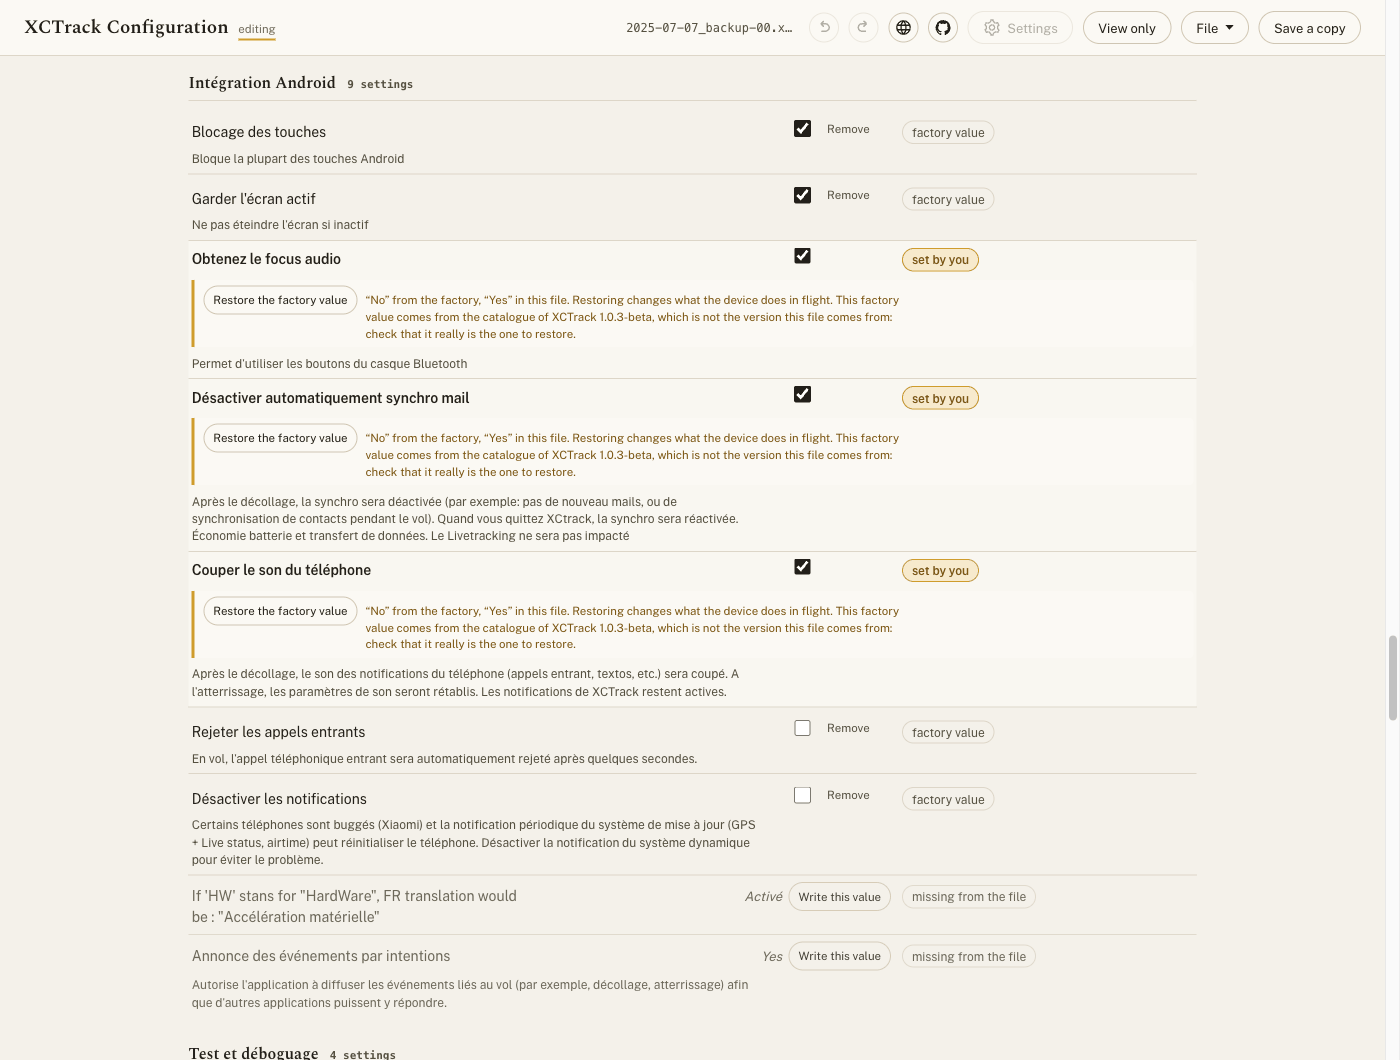
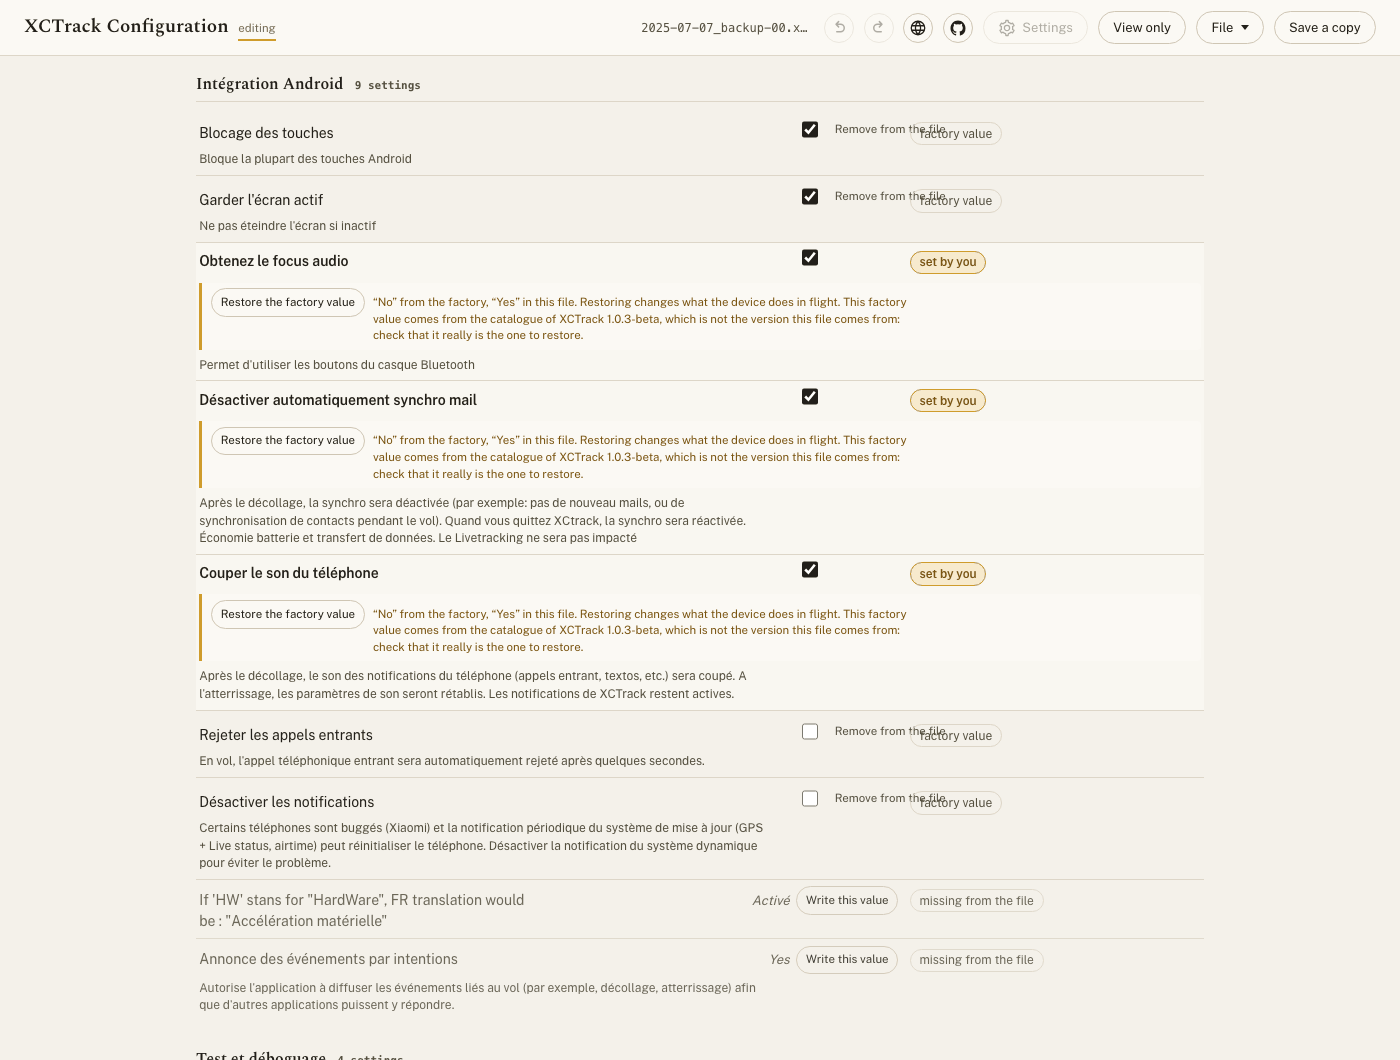
docs(captures): les cinq images de l'écran des réglages disent enfin « Retirer du fichier »
La dette écrite le 2026-08-22 en tête de la recette est payée. Les deux chantiers qui
tenaient `app.css` et `main.ts` ouverts sont clos et publiés ; les cinq captures ont été
reprises sur un export figé de HEAD (`git archive`), servi hors du dépôt pour qu'aucun
fichier créé pendant la prise ne fasse recharger la page.

Même écran, même fixture, même cadrage qu'avant : `preferences_tweaks`
(« Intégration Android ») de 2025-07-07_backup-00.xcfg, en mode édition, 1400 × 1060
points, bloc calé à 72 px du haut de la fenêtre. Les trois gestes de valeur d'usine y
sont toujours réunis — quatre lignes « Retirer du fichier », trois « Rétablir la valeur
d'usine », deux « Définir cette valeur ».

Mesuré et écrit dans la recette : sur CET écran l'allemand ne déborde pas. Le bloc fait
949 px dans les cinq langues, parce que les noms et les descriptions viennent du fichier
— qui déclare le français — et que seuls les boutons et les marques suivent la langue de
l'interface. Un seul cadre suffit donc aux cinq, contrairement à deux des sept autres
écrans.

⚠ Deux défauts vus sur ces images, décrits dans la recette et NON corrigés ici — rien
dans `src/` n'a été touché :

1. Le bouton de retrait déborde sous la marque d'état. `.prefs__aside` réserve 4,6 rem
   (73,6 px), taillés pour « Retirer » ; le renommage ne l'a pas élargie et
   `.prefs__drop` ne se coupe pas. Recouvrement : 24 px en français, 29 en espagnol,
[…]

diff --git a/README.md b/README.md
@@ -360,13 +360,36 @@ réglages restent français dans les cinq captures — seule notre prose change.
 <!--
   REFAIRE CETTE CAPTURE — captures/reglages-generaux.<langue>.png (1400 × 1060)
 
-  ⚠ LES CINQ IMAGES SONT PÉRIMÉES depuis le 2026-08-22 : elles montrent des boutons
-  « Retirer », qui disent maintenant « Retirer du fichier » — « Remove from the file »,
-  « Aus der Datei entfernen », « Quitar del archivo », « Uit het bestand verwijderen ».
-  Rien d'autre n'a bougé sur cet écran. Elles n'ont pas été refaites le jour même, et
-  c'était volontaire : deux autres chantiers avaient la feuille de style ouverte, et
-  une capture prise à ce moment-là aurait figé un travail à mi-course. À refaire sur un
-  arbre propre, avec la recette ci-dessous.
+  DETTE PAYÉE le 2026-08-22 : les cinq images montraient des boutons « Retirer », qui
+  disent maintenant « Retirer du fichier » — « Remove from the file », « Aus der Datei
+  entfernen », « Quitar del archivo », « Uit het bestand verwijderen ». Elles n'avaient pas
+  été refaites le jour du renommage, et c'était volontaire : deux autres chantiers avaient
+  la feuille de style ouverte, et une capture prise à ce moment-là aurait figé un travail
+  à mi-course. Ces chantiers sont clos ; les cinq images ont été reprises sur un arbre
+  propre, servi depuis un export figé de HEAD (`git archive`).
+
+  ⚠ CE QUE CES IMAGES MONTRENT ET QUI EST UN DÉFAUT, PAS UN CADRAGE. Sur les lignes au
+  défaut, le bouton de retrait passe SOUS la marque d'état et sa phrase devient illisible.
+  Ce n'est pas l'émulation : `.prefs__aside` réserve une largeur fixe de 4,6 rem (73,6 px)
+  et `.prefs__drop` porte `white-space: nowrap` — la réservation avait été taillée pour
+  « Retirer », et le renommage ne l'a pas élargie. Mesuré à 1400, 1600 et 1920 points de
+  large, à l'identique : le débordement ne dépend pas de la largeur de la fenêtre.
+      fr  « Retirer du fichier »          bouton 109 px — 24 px de recouvrement
+      es  « Quitar del archivo »          bouton 114 px — 29 px
+      en  « Remove from the file »        bouton 131 px — 46 px
+      de  « Aus der Datei entfernen »     bouton 146 px — 61 px
+      nl  « Uit het bestand verwijderen » bouton 167 px — 82 px (le mot est barré par
+                                                                la marque : illisible)
+  Les images ont tout de même été posées : elles disent le vrai, et une image qui montre
+  un bouton disparu ment davantage qu'une image qui montre un défaut réel. MAIS LES CINQ
+  SONT À REFAIRE dès que la largeur réservée suivra l'intitulé — c'est le seul changement
+  attendu ici, le cadrage ci-dessous restera bon.
+
+  ⚠ Second défaut, visible sur cet écran et signalé avant ce chantier, toujours non
+  traité : l'inversion des formes. Le vrai bouton (`.btn--ghost.prefs__drop`) a un fond et
+  une bordure transparents, il se lit comme du texte ; la marque d'état, qui ne se clique
+  pas, porte un filet gris et un rayon de 999 px, elle se lit comme un bouton. L'œil va au
+  mauvais élément. Confirmé dans les cinq langues.
 
   Écran ...... la page « Réglages généraux », mode édition.
   Langues .... CINQ exemplaires : .fr, .en, .nl, .de, .es.
@@ -383,12 +406,20 @@ réglages restent français dans les cinq captures — seule notre prose change.
                l'avertissement de version puisque ce fichier ne vient pas de la version du
                relevé) et deux lignes « Définir cette valeur » (pastille « absente du
                fichier »). Les trois gestes dans le même cadre.
-  Refaire .... npm run dev -- --port 5179, déposer le fichier, bouton « Réglages », puis
-               « Modifier les réglages », enfin faire défiler jusqu'à « Intégration
-               Android » et le caler à ~72 px sous l'en-tête collant.
+  Refaire .... npm run dev -- --port 5179, déposer le fichier, bouton « Réglages », puis
+               « Modifier les réglages », enfin faire défiler jusqu'à « Intégration
+               Android » et caler le haut du bloc à 72 px du haut de la fenêtre — soit
+               16 px sous la barre de tête collante, qui mesure 56 px.
   Cadrage .... viewport de 1400 × 1060 points CSS, émulation comme ci-dessus.
+               ⚠ L'ALLEMAND NE DÉBORDE PAS SUR CET ÉCRAN, contrairement à deux des sept
+               autres : mesuré, le bloc fait 949 px dans les CINQ langues. C'est attendu
+               — les noms et les descriptions viennent du fichier, qui déclare le
+               français, et seuls les boutons et les marques changent de langue ; aucun
+               d'eux ne pousse une ligne sur un rang de plus. Un seul cadre suffit donc
+               aux cinq. Ne pas généraliser dans l'autre sens pour autant : c'est cet
+               écran-ci qui a été mesuré, pas l'application.
 
-  RECETTE CORRIGÉE — deux points, mesurés sur les fixtures :
+  RECETTE CORRIGÉE — trois points, mesurés sur les fixtures :
   1. Le bouton ne s'appelle plus « Modifier les réglages » depuis la barre du haut : on
      ouvre l'écran par « Réglages », et on bascule ensuite en édition.
   2. Sur 2026-08-20_backup-00.xcfg, aucune ligne des réglages généraux n'offre
